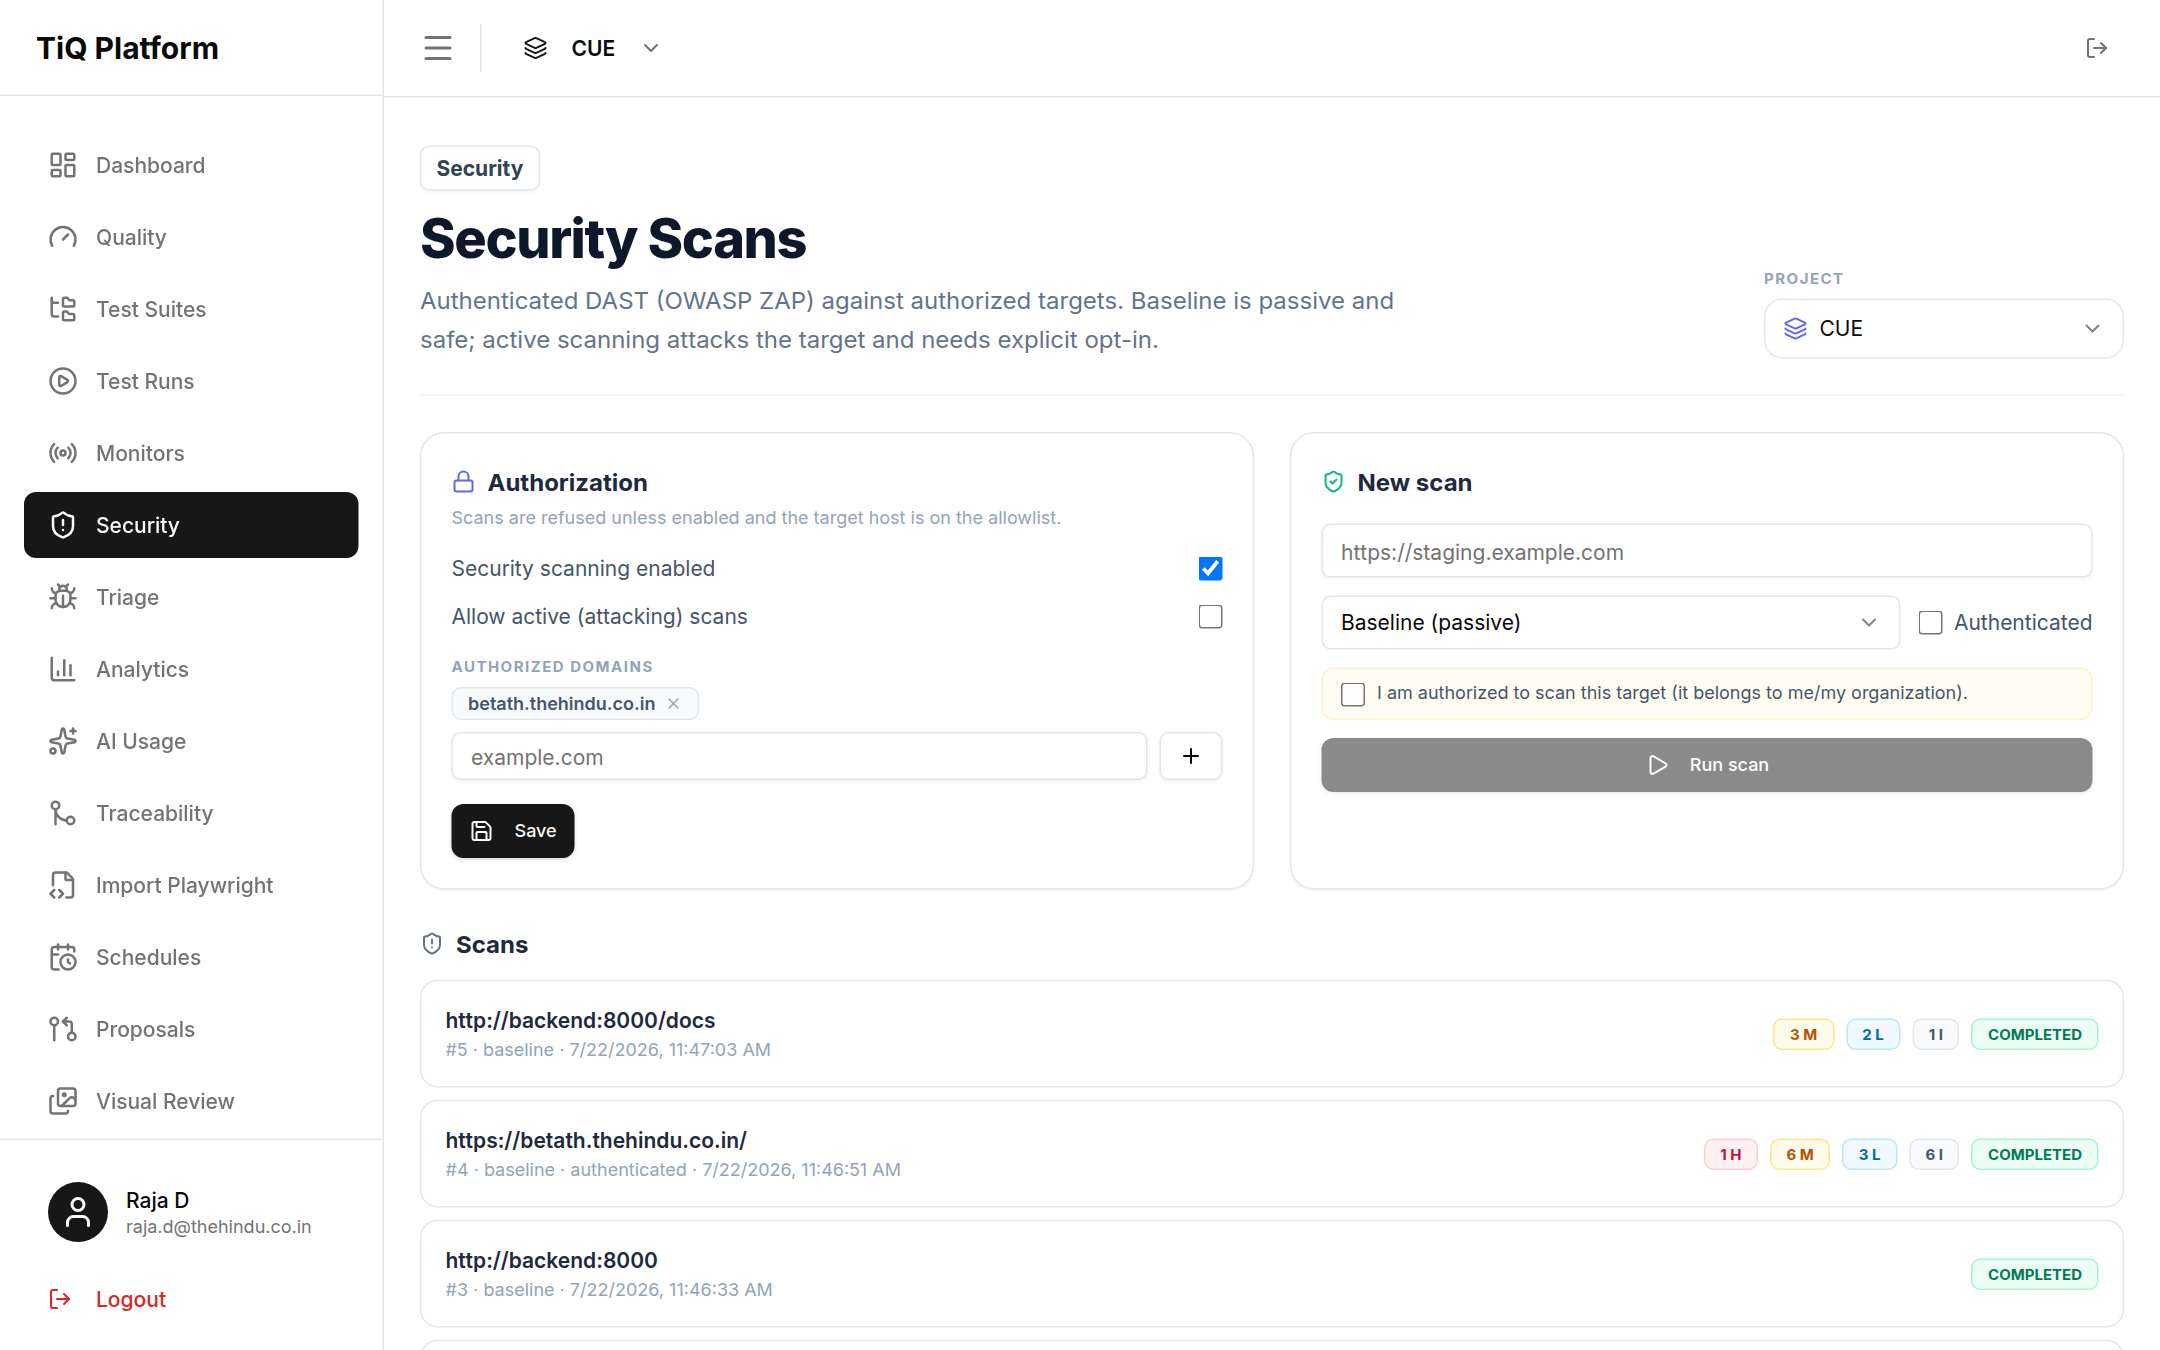
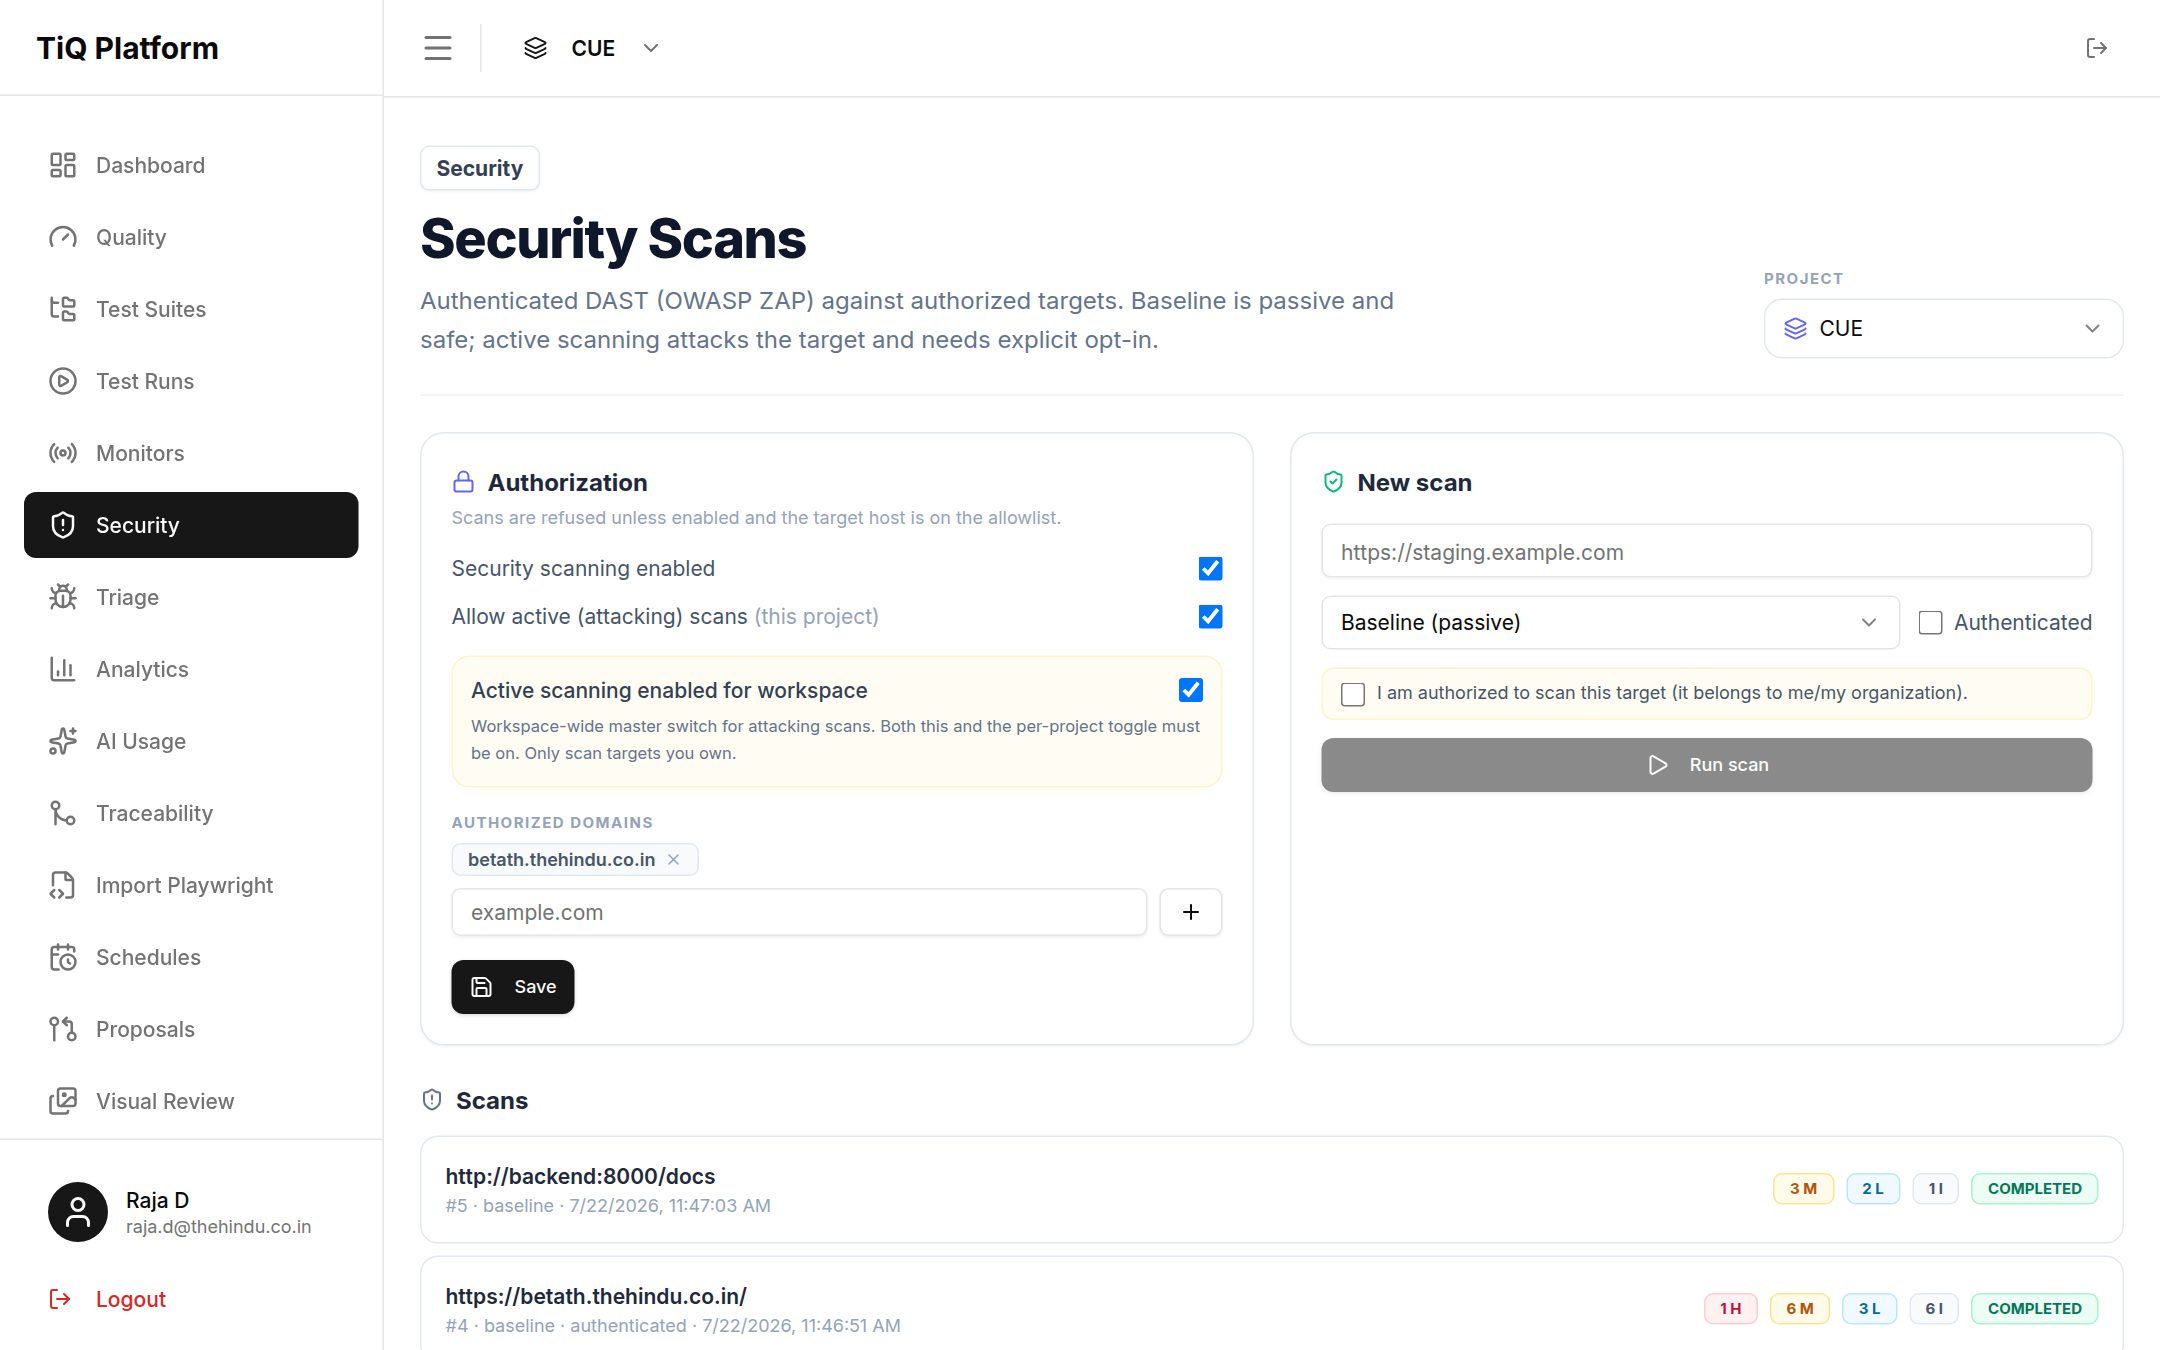
feat(security): workspace-level active-scan toggle, configurable from the UI
Active (attacking) scans previously required editing SECURITY_ACTIVE_SCAN_ENABLED
in env + recreating containers — so the UI checkbox alone always reported
'disabled'. Now a workspace admin flips a master switch on the Security page.

- Workspace.active_scan_enabled (migration f0a1b2c3d4e5); scan gate passes when
  the env flag OR the workspace toggle is on, then still requires the per-project
  allow_active_scan opt-in and per-scan authorization (two-key lock preserved)
- GET/PUT /api/workspaces/{id}/security — read effective state + toggle
  (workspace admin/owner only); reports forced_by_deployment when env forces it
- Security page: 'Active scanning enabled for workspace' control with role-aware
  enable/disable and guidance; per-project toggle relabelled '(this project)'
- Docs Security guardrails updated to describe the UI switch

Verified end-to-end: toggle round-trips; with both switches on the gate passes
and a scan queues (safely no-op'd — ZAP not running, zero attack traffic).

diff --git a/frontend/src/pages/Security.tsx b/frontend/src/pages/Security.tsx
@@ -26,12 +26,26 @@ const STATUS_TONE: Record<string, string> = {
     error: 'bg-rose-50 text-rose-700 border-rose-200',
 };
 
-function SettingsCard({ projectId }: { projectId: number }) {
+function SettingsCard({ projectId, workspaceId }: { projectId: number; workspaceId: number | null }) {
     const qc = useQueryClient();
     const { data } = useQuery({ queryKey: ['sec-settings', projectId], queryFn: () => securityApi.getSettings(projectId) });
     const [s, setS] = useState<SecuritySettings | null>(null);
     const [domainInput, setDomainInput] = useState('');
     useEffect(() => { if (data) setS(data); }, [data]);
+
+    const wsSec = useQuery({
+        queryKey: ['ws-security', workspaceId],
+        queryFn: () => securityApi.getWorkspaceSecurity(workspaceId!),
+        enabled: !!workspaceId,
+    });
+    const toggleWs = useMutation({
+        mutationFn: (enabled: boolean) => securityApi.setWorkspaceActiveScan(workspaceId!, enabled),
+        onSuccess: (d) => {
+            toast.success(d.workspace_toggle ? 'Active scanning enabled for this workspace' : 'Active scanning disabled for this workspace');
+            qc.invalidateQueries({ queryKey: ['ws-security', workspaceId] });
+        },
+        onError: (e) => toast.error(errDetail(e)),
+    });
 
     const save = useMutation({
         mutationFn: () => securityApi.setSettings(projectId, s!),
@@ -39,6 +53,8 @@ function SettingsCard({ projectId }: { projectId: number }) {
         onError: (e) => toast.error(`Save failed: ${errDetail(e)} (admin role required)`),
     });
     if (!s) return null;
+
+    const ws = wsSec.data;
 
     const addDomain = () => {
         const d = domainInput.trim().toLowerCase();
@@ -55,9 +71,29 @@ function SettingsCard({ projectId }: { projectId: number }) {
                 <input type="checkbox" className="w-4 h-4" checked={s.enabled} onChange={(e) => setS({ ...s, enabled: e.target.checked })} />
             </label>
             <label className="flex items-center justify-between text-sm cursor-pointer mb-4">
-                <span className="text-slate-600">Allow active (attacking) scans</span>
+                <span className="text-slate-600">Allow active (attacking) scans <span className="text-slate-400">(this project)</span></span>
                 <input type="checkbox" className="w-4 h-4" checked={s.allow_active_scan} onChange={(e) => setS({ ...s, allow_active_scan: e.target.checked })} />
             </label>
+
+            {ws && (
+                <div className="mb-4 p-3 rounded-xl border border-amber-100 bg-amber-50/60">
+                    <label className="flex items-center justify-between text-sm cursor-pointer">
+                        <span className="text-slate-700 font-medium">Active scanning enabled for workspace</span>
+                        <input type="checkbox" className="w-4 h-4"
+                            checked={ws.active_scan_enabled}
+                            disabled={!ws.can_edit || ws.forced_by_deployment || toggleWs.isPending}
+                            onChange={(e) => toggleWs.mutate(e.target.checked)} />
+                    </label>
+                    <p className="text-[11px] text-slate-500 mt-1.5 leading-relaxed">
+                        {ws.forced_by_deployment
+                            ? 'Forced on by the deployment (SECURITY_ACTIVE_SCAN_ENABLED).'
+                            : ws.can_edit
+                                ? 'Workspace-wide master switch for attacking scans. Both this and the per-project toggle must be on. Only scan targets you own.'
+                                : 'Only a workspace admin can change this. Active scans need this on plus the per-project toggle.'}
+                    </p>
+                </div>
+            )}
+
             <div className="text-[10px] font-bold text-slate-400 uppercase tracking-widest mb-1.5">Authorized domains</div>
             <div className="flex flex-wrap gap-1.5 mb-2">
                 {s.allowed_domains.length === 0 && <span className="text-xs text-slate-400">none — scans will be refused</span>}
@@ -266,7 +302,7 @@ export default function Security() {
             ) : (
                 <div className="space-y-6">
                     <div className="grid md:grid-cols-2 gap-6">
-                        <SettingsCard projectId={projectId} />
+                        <SettingsCard projectId={projectId} workspaceId={(projects || []).find((p) => p.id === projectId)?.workspace_id ?? null} />
                         <NewScanCard projectId={projectId} />
                     </div>
                     <div>

diff --git a/frontend/src/api/security.ts b/frontend/src/api/security.ts
@@ -98,4 +98,20 @@ export const securityApi = {
         const r = await api.get(`/security-scans/${scanId}/diff`);
         return r.data;
     },
+    getWorkspaceSecurity: async (workspaceId: number): Promise<WorkspaceSecurity> => {
+        const r = await api.get(`/workspaces/${workspaceId}/security`);
+        return r.data;
+    },
+    setWorkspaceActiveScan: async (workspaceId: number, enabled: boolean): Promise<WorkspaceSecurity> => {
+        const r = await api.put(`/workspaces/${workspaceId}/security`, { active_scan_enabled: enabled });
+        return r.data;
+    },
 };
+
+export interface WorkspaceSecurity {
+    workspace_id: number;
+    active_scan_enabled: boolean;   // effective (env flag OR workspace toggle)
+    workspace_toggle: boolean;      // the stored workspace setting
+    forced_by_deployment: boolean;  // env flag forces it on
+    can_edit: boolean;              // caller is workspace admin/owner
+}

diff --git a/docs/index.html b/docs/index.html
@@ -812,7 +812,7 @@ curl -X POST "$TRACEIQ/api/runs?suite_id=42" -H "X-API-Key: tiq_..." \
         <ul class="bul">
           <li>Per-project <em>verified-domain allowlist</em> — only registered targets can be scanned.</li>
           <li>An explicit "I'm authorized to scan this" attestation on every scan.</li>
-          <li>Active scans need a global flag <em>and</em> a per-project opt-in (double opt-in).</li>
+          <li>Active (attacking) scans need <em>both</em> the workspace master switch <em>and</em> the per-project opt-in turned on — a two-key lock. A workspace admin flips the master switch right on the Security page (no env edits); the deployment env flag <code>SECURITY_ACTIVE_SCAN_ENABLED</code> still works as a global override.</li>
         </ul>
       </div>
       <div class="card">

diff --git a/backend/app/api/security.py b/backend/app/api/security.py
@@ -22,7 +22,7 @@ from app.core.auth import get_current_user, get_current_principal, AuthPrincipal
 from app.core.config import settings as cfg
 from app.services.access_service import access_service
 from app.models import (
-    User, Project, SecurityScan, SecurityScanRead, SecurityScanRequest,
+    User, Project, Workspace, UserWorkspace, SecurityScan, SecurityScanRead, SecurityScanRequest,
     SecuritySettings, DEFAULT_SECURITY_SETTINGS, SecurityFinding, SecurityFindingRead,
 )
 
@@ -108,8 +108,11 @@ async def create_security_scan(
     if scan_type not in ("baseline", "active"):
         raise HTTPException(status_code=400, detail="scan_type must be 'baseline' or 'active'")
     if scan_type == "active":
-        if not cfg.SECURITY_ACTIVE_SCAN_ENABLED:
-            raise HTTPException(status_code=403, detail="Active scanning is disabled on this deployment")
+        workspace = await session.get(Workspace, project.workspace_id) if project.workspace_id else None
+        deployment_ok = cfg.SECURITY_ACTIVE_SCAN_ENABLED or bool(workspace and workspace.active_scan_enabled)
+        if not deployment_ok:
+            raise HTTPException(status_code=403,
+                detail="Active scanning is disabled for this workspace — a workspace admin can enable it in Security settings")
         if not sec.allow_active_scan:
             raise HTTPException(status_code=403, detail="Active scanning is not enabled for this project")
 
@@ -253,3 +256,55 @@ async def security_scan_diff(
         "fixed": fixed,
         "persisting_count": len(persisting),
     }
+
+
+async def _workspace_role(session: AsyncSession, workspace_id: int, user_id: int) -> str:
+    row = (await session.exec(select(UserWorkspace).where(
+        UserWorkspace.workspace_id == workspace_id,
+        UserWorkspace.user_id == user_id))).first()
+    if not row:
+        raise HTTPException(status_code=403, detail="Not a member of this workspace")
+    return (row.role or "").lower()
+
+
+@router.get("/workspaces/{workspace_id}/security")
+async def get_workspace_security(
+    workspace_id: int,
+    session: AsyncSession = Depends(get_session),
+    current_user: User = Depends(get_current_user),
+):
+    """Workspace-level security settings + whether the caller may change them."""
+    role = await _workspace_role(session, workspace_id, current_user.id)
+    ws = await session.get(Workspace, workspace_id)
+    if not ws:
+        raise HTTPException(status_code=404, detail="Workspace not found")
+    return {
+        "workspace_id": workspace_id,
+        # Effective master switch: the global env flag OR the workspace toggle.
+        "active_scan_enabled": bool(cfg.SECURITY_ACTIVE_SCAN_ENABLED or ws.active_scan_enabled),
+        "workspace_toggle": ws.active_scan_enabled,
+        "forced_by_deployment": bool(cfg.SECURITY_ACTIVE_SCAN_ENABLED),
+        "can_edit": role in ("admin", "owner"),
+    }
+
+
+@router.put("/workspaces/{workspace_id}/security")
+async def set_workspace_security(
+    workspace_id: int,
+    body: dict = Body(...),
+    session: AsyncSession = Depends(get_session),
+    current_user: User = Depends(get_current_user),
+):
+    """Toggle workspace-wide active scanning (workspace admin/owner only)."""
+    role = await _workspace_role(session, workspace_id, current_user.id)
+    if role not in ("admin", "owner"):
+        raise HTTPException(status_code=403, detail="Workspace admin required to change active-scan policy")
+    ws = await session.get(Workspace, workspace_id)
+    if not ws:
+        raise HTTPException(status_code=404, detail="Workspace not found")
+    if "active_scan_enabled" in body:
+        ws.active_scan_enabled = bool(body["active_scan_enabled"])
+        session.add(ws)
+        await session.commit()
+        await session.refresh(ws)
+    return await get_workspace_security(workspace_id, session, current_user)

diff --git a/backend/app/alembic/versions/f0a1b2c3d4e5_workspace_active_scan.py b/backend/app/alembic/versions/f0a1b2c3d4e5_workspace_active_scan.py
@@ -1,0 +1,28 @@
+"""Workspace-level active-scan toggle
+
+Revision ID: f0a1b2c3d4e5
+Revises: e9f0a1b2c3d4
+Create Date: 2026-07-23 17:30:00.000000
+
+A workspace admin can enable active (attacking) DAST scans from the UI,
+replacing the need to set SECURITY_ACTIVE_SCAN_ENABLED via env + container
+recreate. The env flag remains a global override.
+"""
+from typing import Sequence, Union
+
+from alembic import op
+import sqlalchemy as sa
+
+
+revision: str = 'f0a1b2c3d4e5'
+down_revision: Union[str, None] = 'e9f0a1b2c3d4'
+branch_labels: Union[str, Sequence[str], None] = None
+depends_on: Union[str, Sequence[str], None] = None
+
+
+def upgrade() -> None:
+    op.add_column('workspace', sa.Column('active_scan_enabled', sa.Boolean(), nullable=False, server_default=sa.false()))
+
+
+def downgrade() -> None:
+    op.drop_column('workspace', 'active_scan_enabled')

diff --git a/backend/app/models.py b/backend/app/models.py
@@ -108,6 +108,13 @@ class Workspace(SQLModel, table=True):
     # PENDING and are retried until a slot frees. 0 = unlimited.
     max_concurrent_runs: int = Field(default=0)
 
+    # Master switch for active (attacking) DAST scans across this workspace.
+    # A workspace admin toggles it from the UI. Active scans still require the
+    # per-project `allow_active_scan` opt-in and a per-scan authorization
+    # attestation. The env flag SECURITY_ACTIVE_SCAN_ENABLED remains a global
+    # override (either being true permits active scans).
+    active_scan_enabled: bool = Field(default=False)
+
 
 class Project(SQLModel, table=True):
     id: Optional[int] = Field(default=None, primary_key=True)
